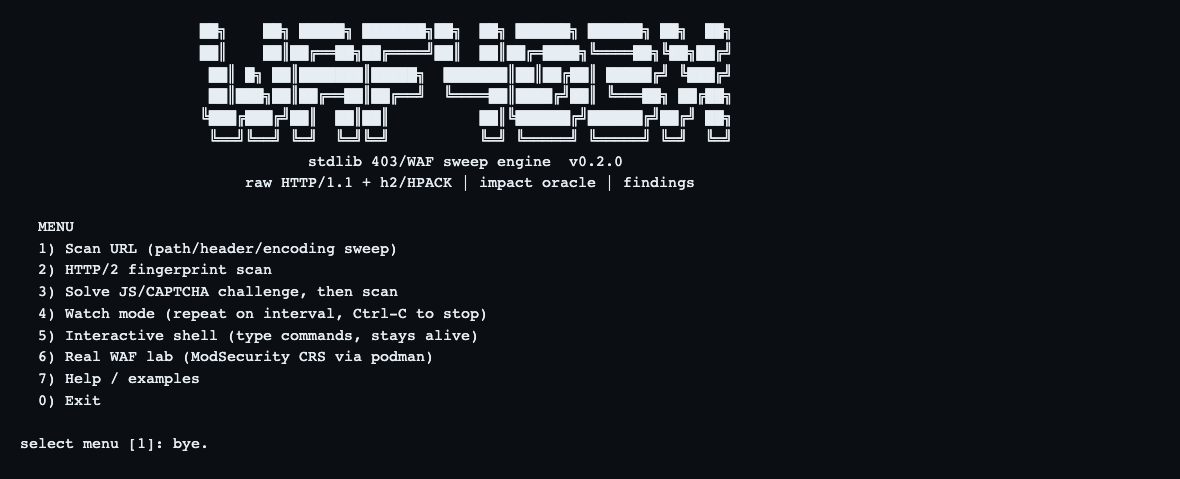
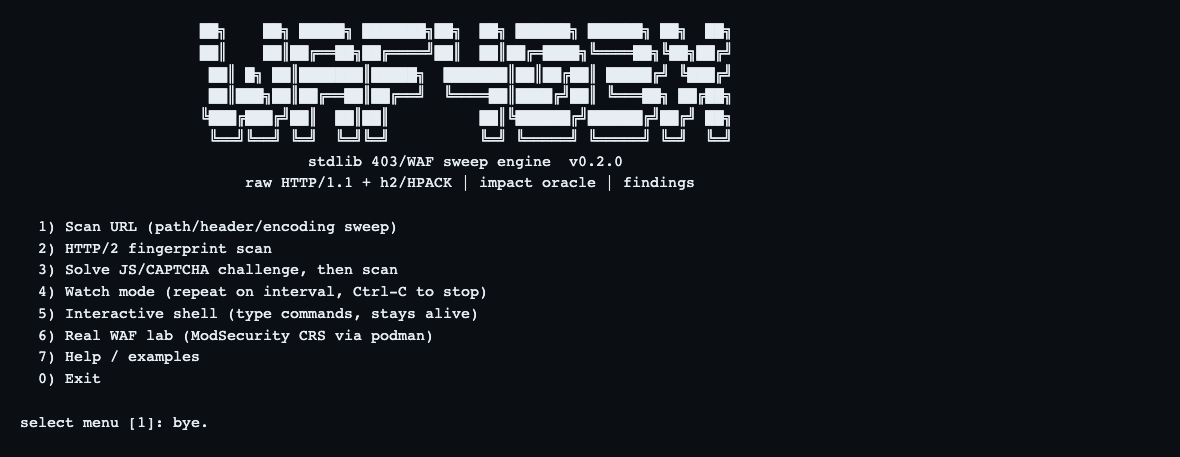
fix: fullscreen menu in alternate screen, no duplicate redraw

diff --git a/wafbypass.py b/wafbypass.py
@@ -1447,12 +1447,14 @@ def repl(args):
 
 
 def watch(args, interval):
-    print("[i] watch every %ds, Ctrl-C to stop" % interval)
     last = None
+    active = _alt_enter()
 
     def show():
         if last is not None:
             sys.stdout.write("\033[2J\033[H")
+            sys.stdout.write("[i] watch every %ds, Ctrl-C to stop\n\n"
+                             % interval)
             sys.stdout.write(render(last, args.json, term_width()) + "\n")
             sys.stdout.flush()
 
@@ -1466,6 +1468,8 @@ def watch(args, interval):
             time.sleep(max(1, interval))
     except KeyboardInterrupt:
         return 0
+    finally:
+        _alt_leave(active)
 
 
 def _ask(prompt, default=""):
@@ -1491,131 +1495,200 @@ def _print_banner():
     print()
 
 
-def welcome_menu(args):
-    options = [
-        ("1", "Scan URL (path/header/encoding sweep)"),
-        ("2", "HTTP/2 fingerprint scan"),
-        ("3", "Solve JS/CAPTCHA challenge, then scan"),
-        ("4", "Watch mode (repeat on interval, Ctrl-C to stop)"),
-        ("5", "Interactive shell (type commands, stays alive)"),
-        ("6", "Real WAF lab (ModSecurity CRS via podman)"),
-        ("7", "Help / examples"),
-        ("0", "Exit"),
-    ]
-    while True:
-        _print_banner()
-        width = term_width()
-        print("  MENU".ljust(width))
-        for key, label in options:
-            line = "  %s) %s" % (key, label)
-            for wrapped in textwrap.wrap(line, width=max(24, width - 2)) or [""]:
-                print(wrapped)
-        print()
-        choice = _ask("select menu", "1")
-        if choice is None or choice == "0":
-            print("bye.")
-            return 0
-        if choice == "1":
-            url = _ask("target URL", args.url or "")
-            if not url:
-                print("[x] empty URL\n")
-                continue
-            args.url = url
-            args.mode = _ask("mode (path/header/method/body/encoding/cookie/"
-                             "ctype/size/all)", args.mode)
-            if args.mode not in MODE_CHOICES:
-                print("[x] unknown mode\n")
-                continue
-            print(LEVEL_HELP)
-            lvl = _ask("level 1-4 (see above)", str(args.level))
-            args.level = int(lvl) if lvl in ("1", "2", "3", "4") else 4
-            rep = _ask("repeat", str(args.repeat))
-            args.repeat = int(rep) if rep.isdigit() else 2
-            data, code = run(args)
-            if data:
-                print()
-                print(render(data, args.json, term_width()))
-                print()
-            else:
-                print("[x] run failed (exit %d)\n" % code)
-        elif choice == "2":
-            url = _ask("target URL")
-            if not url:
-                print("[x] empty URL\n")
-                continue
-            args.url = url
-            args.mode = "h2"
-            args.http2 = _ask("profil h2 (chrome/firefox/safari/nghttp2/plain)",
-                              "chrome")
-            if args.http2 not in h2.PROFILES:
-                args.http2 = "chrome"
-            data, code = run(args)
-            if data:
-                print()
-                print(render(data, args.json, term_width()))
-                print()
-            else:
-                print("[x] run failed (exit %d)\n" % code)
-        elif choice == "3":
-            url = _ask("target URL")
-            if not url:
-                print("[x] empty URL\n")
-                continue
-            args.url = url
-            args.solve_challenge = True
-            args.cookies = True
-            args.follow = 2
-            print("[i] solving in a browser, 2-5 minutes; cookie cache TTL 900 s...")
-            data, code = run(args)
-            if data:
-                print()
-                print(render(data, args.json, term_width()))
-                print()
-            else:
-                print("[x] run failed (exit %d)\n" % code)
-        elif choice == "4":
-            url = _ask("target URL")
-            if not url:
-                print("[x] empty URL\n")
-                continue
-            args.url = url
-            interval = _ask("interval seconds", "60")
-            return watch(args, int(interval) if interval.isdigit() else 60)
-        elif choice == "5":
-            return repl(args)
-        elif choice == "6":
+MENU_OPTIONS = [
+    ("1", "Scan URL (path/header/encoding sweep)"),
+    ("2", "HTTP/2 fingerprint scan"),
+    ("3", "Solve JS/CAPTCHA challenge, then scan"),
+    ("4", "Watch mode (repeat on interval, Ctrl-C to stop)"),
+    ("5", "Interactive shell (type commands, stays alive)"),
+    ("6", "Real WAF lab (ModSecurity CRS via podman)"),
+    ("7", "Help / examples"),
+    ("0", "Exit"),
+]
+
+
+def _menu_lines(width, height):
+    lines = []
+    banner = BANNER.strip("\n").splitlines()
+    if width >= 70 and height >= len(banner) + len(MENU_OPTIONS) + 8:
+        for line in banner:
+            lines.append(line.center(width))
+        lines.append(("stdlib 403/WAF sweep engine  v%s" % VERSION).center(width))
+        lines.append(("raw HTTP/1.1 + h2/HPACK | impact oracle | findings")
+                     .center(width))
+        lines.append("")
+    else:
+        lines.append(("WAF403x v%s" % VERSION).center(width))
+        lines.append("")
+    lines.append("  MENU")
+    for key, label in MENU_OPTIONS:
+        for wrapped in textwrap.wrap("  %s) %s" % (key, label),
+                                      width=max(24, width - 2)):
+            lines.append(wrapped)
+    lines.append("")
+    return lines[:max(8, height - 2)]
+
+
+def _alt_enter():
+    """Switch to the alternate screen so the UI never enters scrollback."""
+    if not sys.stdout.isatty():
+        return False
+    sys.stdout.write("\033[?1049h\033[2J\033[3J\033[H")
+    sys.stdout.flush()
+    return True
+
+
+def _alt_leave(active):
+    if active:
+        sys.stdout.write("\033[2J\033[H\033[?1049l")
+        sys.stdout.flush()
+
+
+def _draw_menu():
+    width, height = shutil.get_terminal_size((100, 30))
+    sys.stdout.write("\033[2J\033[H")
+    sys.stdout.write("\n".join(_menu_lines(width, height)) + "\n")
+    sys.stdout.flush()
+
+
+def _menu_action(choice, args):
+    if choice == "1":
+        url = _ask("target URL", args.url or "")
+        if not url:
+            print("[x] empty URL")
+            return True
+        args.url = url
+        args.mode = _ask("mode (path/header/method/body/encoding/cookie/"
+                         "ctype/size/all)", args.mode)
+        if args.mode not in MODE_CHOICES:
+            print("[x] unknown mode")
+            return True
+        print(LEVEL_HELP)
+        lvl = _ask("level 1-4 (see above)", str(args.level))
+        args.level = int(lvl) if lvl in ("1", "2", "3", "4") else 4
+        rep = _ask("repeat", str(args.repeat))
+        args.repeat = int(rep) if rep.isdigit() else 2
+        data, code = run(args)
+        if data:
             print()
-            print("  CRS lab steps (macOS/podman):")
-            print("    podman machine start")
-            print("    printf 'SecRule REQUEST_URI \"@beginsWith /users\" "
-                  "\"id:900001,phase:1,deny,status:403,log\"\\n' > "
-                  "~/wafbypass-crs.conf")
-            print("    python3 tests/sim_waf.py --host 0.0.0.0 &")
-            print("    podman run -d --name crs -p 8080:8080 -v "
-                  "\"$HOME/wafbypass-crs.conf:/etc/modsecurity.d/zz-custom.conf:ro\" \\")
-            print("      -e BACKEND=http://host.containers.internal:8099 "
-                  "-e PORT=8080 -e MODSEC_RULE_ENGINE=on \\")
-            print("      -e PARANOIA=1 -e BLOCKING_PARANOIA=1 "
-                  "owasp/modsecurity-crs:nginx")
-            print("    python3 wafbypass.py -u http://127.0.0.1:8080/users "
-                  "--mode path --level 2 -t 2 --repeat 2")
-            print()
-            _ask("Enter to return")
-        elif choice == "7":
-            print()
-            print("  Contoh:")
-            print("    wafbypass.py -u https://t/users --mode path --level 2")
-            print("    wafbypass.py -u 'https://t/search?q=1' --preset sqli "
-                  "--mode encoding")
-            print("    wafbypass.py -u https://t/ --http2 chrome --mode h2")
-            print("    wafbypass.py -u https://t/ --solve-challenge --follow 2")
-            print("    wafbypass.py -u https://t/ --watch 60")
-            print("    wafbypass.py -i          # shell interaktif")
-            print("    wafbypass.py --help")
-            print()
-            _ask("Enter to return")
+            print(render(data, args.json, term_width()))
         else:
-            print("[x] no such option\n")
+            print("[x] run failed (exit %d)" % code)
+        return True
+    if choice == "2":
+        url = _ask("target URL")
+        if not url:
+            print("[x] empty URL")
+            return True
+        args.url = url
+        args.mode = "h2"
+        args.http2 = _ask("h2 profile (chrome/firefox/safari/nghttp2/plain)",
+                          "chrome")
+        if args.http2 not in h2.PROFILES:
+            args.http2 = "chrome"
+        data, code = run(args)
+        if data:
+            print()
+            print(render(data, args.json, term_width()))
+        else:
+            print("[x] run failed (exit %d)" % code)
+        return True
+    if choice == "3":
+        url = _ask("target URL")
+        if not url:
+            print("[x] empty URL")
+            return True
+        args.url = url
+        args.solve_challenge = True
+        args.cookies = True
+        args.follow = 2
+        print("[i] solving in a browser, 2-5 minutes; cookie cache TTL 900 s...")
+        data, code = run(args)
+        if data:
+            print()
+            print(render(data, args.json, term_width()))
+        else:
+            print("[x] run failed (exit %d)" % code)
+        return True
+    if choice == "4":
+        url = _ask("target URL")
+        if not url:
+            print("[x] empty URL")
+            return True
+        args.url = url
+        interval = _ask("interval seconds", "60")
+        watch(args, int(interval) if interval.isdigit() else 60)
+        return True
+    if choice == "5":
+        repl(args)
+        return True
+    if choice == "6":
+        print()
+        print("  CRS lab steps (macOS/podman):")
+        print("    podman machine start")
+        print("    printf 'SecRule REQUEST_URI \"@beginsWith /users\" "
+              "\"id:900001,phase:1,deny,status:403,log\"\\n' > "
+              "~/wafbypass-crs.conf")
+        print("    python3 tests/sim_waf.py --host 0.0.0.0 &")
+        print("    podman run -d --name crs -p 8080:8080 -v "
+              "\"$HOME/wafbypass-crs.conf:/etc/modsecurity.d/zz-custom.conf:ro\" \\")
+        print("      -e BACKEND=http://host.containers.internal:8099 "
+              "-e PORT=8080 -e MODSEC_RULE_ENGINE=on \\")
+        print("      -e PARANOIA=1 -e BLOCKING_PARANOIA=1 "
+              "owasp/modsecurity-crs:nginx")
+        print("    python3 wafbypass.py -u http://127.0.0.1:8080/users "
+              "--mode path --level 2 -t 2 --repeat 2")
+        print()
+        return True
+    if choice == "7":
+        print()
+        print("  Examples:")
+        print("    wafbypass.py -u https://t/users --mode path --level 2")
+        print("    wafbypass.py -u 'https://t/search?q=1' --preset sqli "
+              "--mode encoding")
+        print("    wafbypass.py -u https://t/ --http2 chrome --mode h2")
+        print("    wafbypass.py -u https://t/ --solve-challenge --follow 2")
+        print("    wafbypass.py -u https://t/ --watch 60")
+        print("    wafbypass.py -i          # interactive shell")
+        print("    wafbypass.py --help")
+        print()
+        return True
+    print("[x] no such option")
+    return True
+
+
+def welcome_menu(args):
+    full = _alt_enter()
+    if full:
+        def on_resize(signum, frame):
+            _draw_menu()
+            sys.stdout.write("select menu [1]: ")
+            sys.stdout.flush()
+
+        try:
+            signal.signal(signal.SIGWINCH, on_resize)
+        except (ValueError, OSError):
+            pass
+    printed = False
+    try:
+        while True:
+            if full:
+                _draw_menu()
+            elif not printed:
+                _print_banner()
+                for key, label in MENU_OPTIONS:
+                    print("  %s) %s" % (key, label))
+                print()
+                printed = True
+            choice = _ask("select menu", "1")
+            if choice is None or choice == "0":
+                print("bye.")
+                return 0
+            _menu_action(choice, args)
+            if full:
+                _ask("Enter to return to menu")
+    finally:
+        _alt_leave(full)
 
 
 def main(argv=None):

diff --git a/README.md b/README.md
@@ -60,7 +60,9 @@ python3 wafbypass.py -i         # interactive shell, no restart between scans
 python3 wafbypass.py -u URL --watch 60
 ```
 
-The menu prompts for URL, mode, level and repeat. Before the level prompt it
+The menu runs in the alternate screen (no scrollback, no duplicated banner
+after each action) and redraws on resize. It prompts for URL, mode, level and
+repeat. Before the level prompt it
 prints what each level adds (1 obvious rewrite, 2 single parser differential,
 3 double layer, 4 null/terminal framing), then prints the same report as the
 CLI. `-i` keeps the process (and the cookie jar / solved challenge)

diff --git a/docs/LIMITATIONS-TEST.md b/docs/LIMITATIONS-TEST.md
@@ -237,7 +237,10 @@ waf403x> run
 waf403x> quit
 ```
 
-The menu is fully English and prints the level table before asking:
+The menu runs in the terminal alternate screen: it clears on entry, on every
+action and on exit, so switching menus cannot duplicate the banner in
+scrollback. `--watch` uses the same alternate screen. The menu is fully
+English and prints the level table before asking:
 `1 obvious rewrite`, `2 one parser differential`, `3 double layer`,
 `4 null/terminal framing`. Interactive `levels` prints the same table.
 
